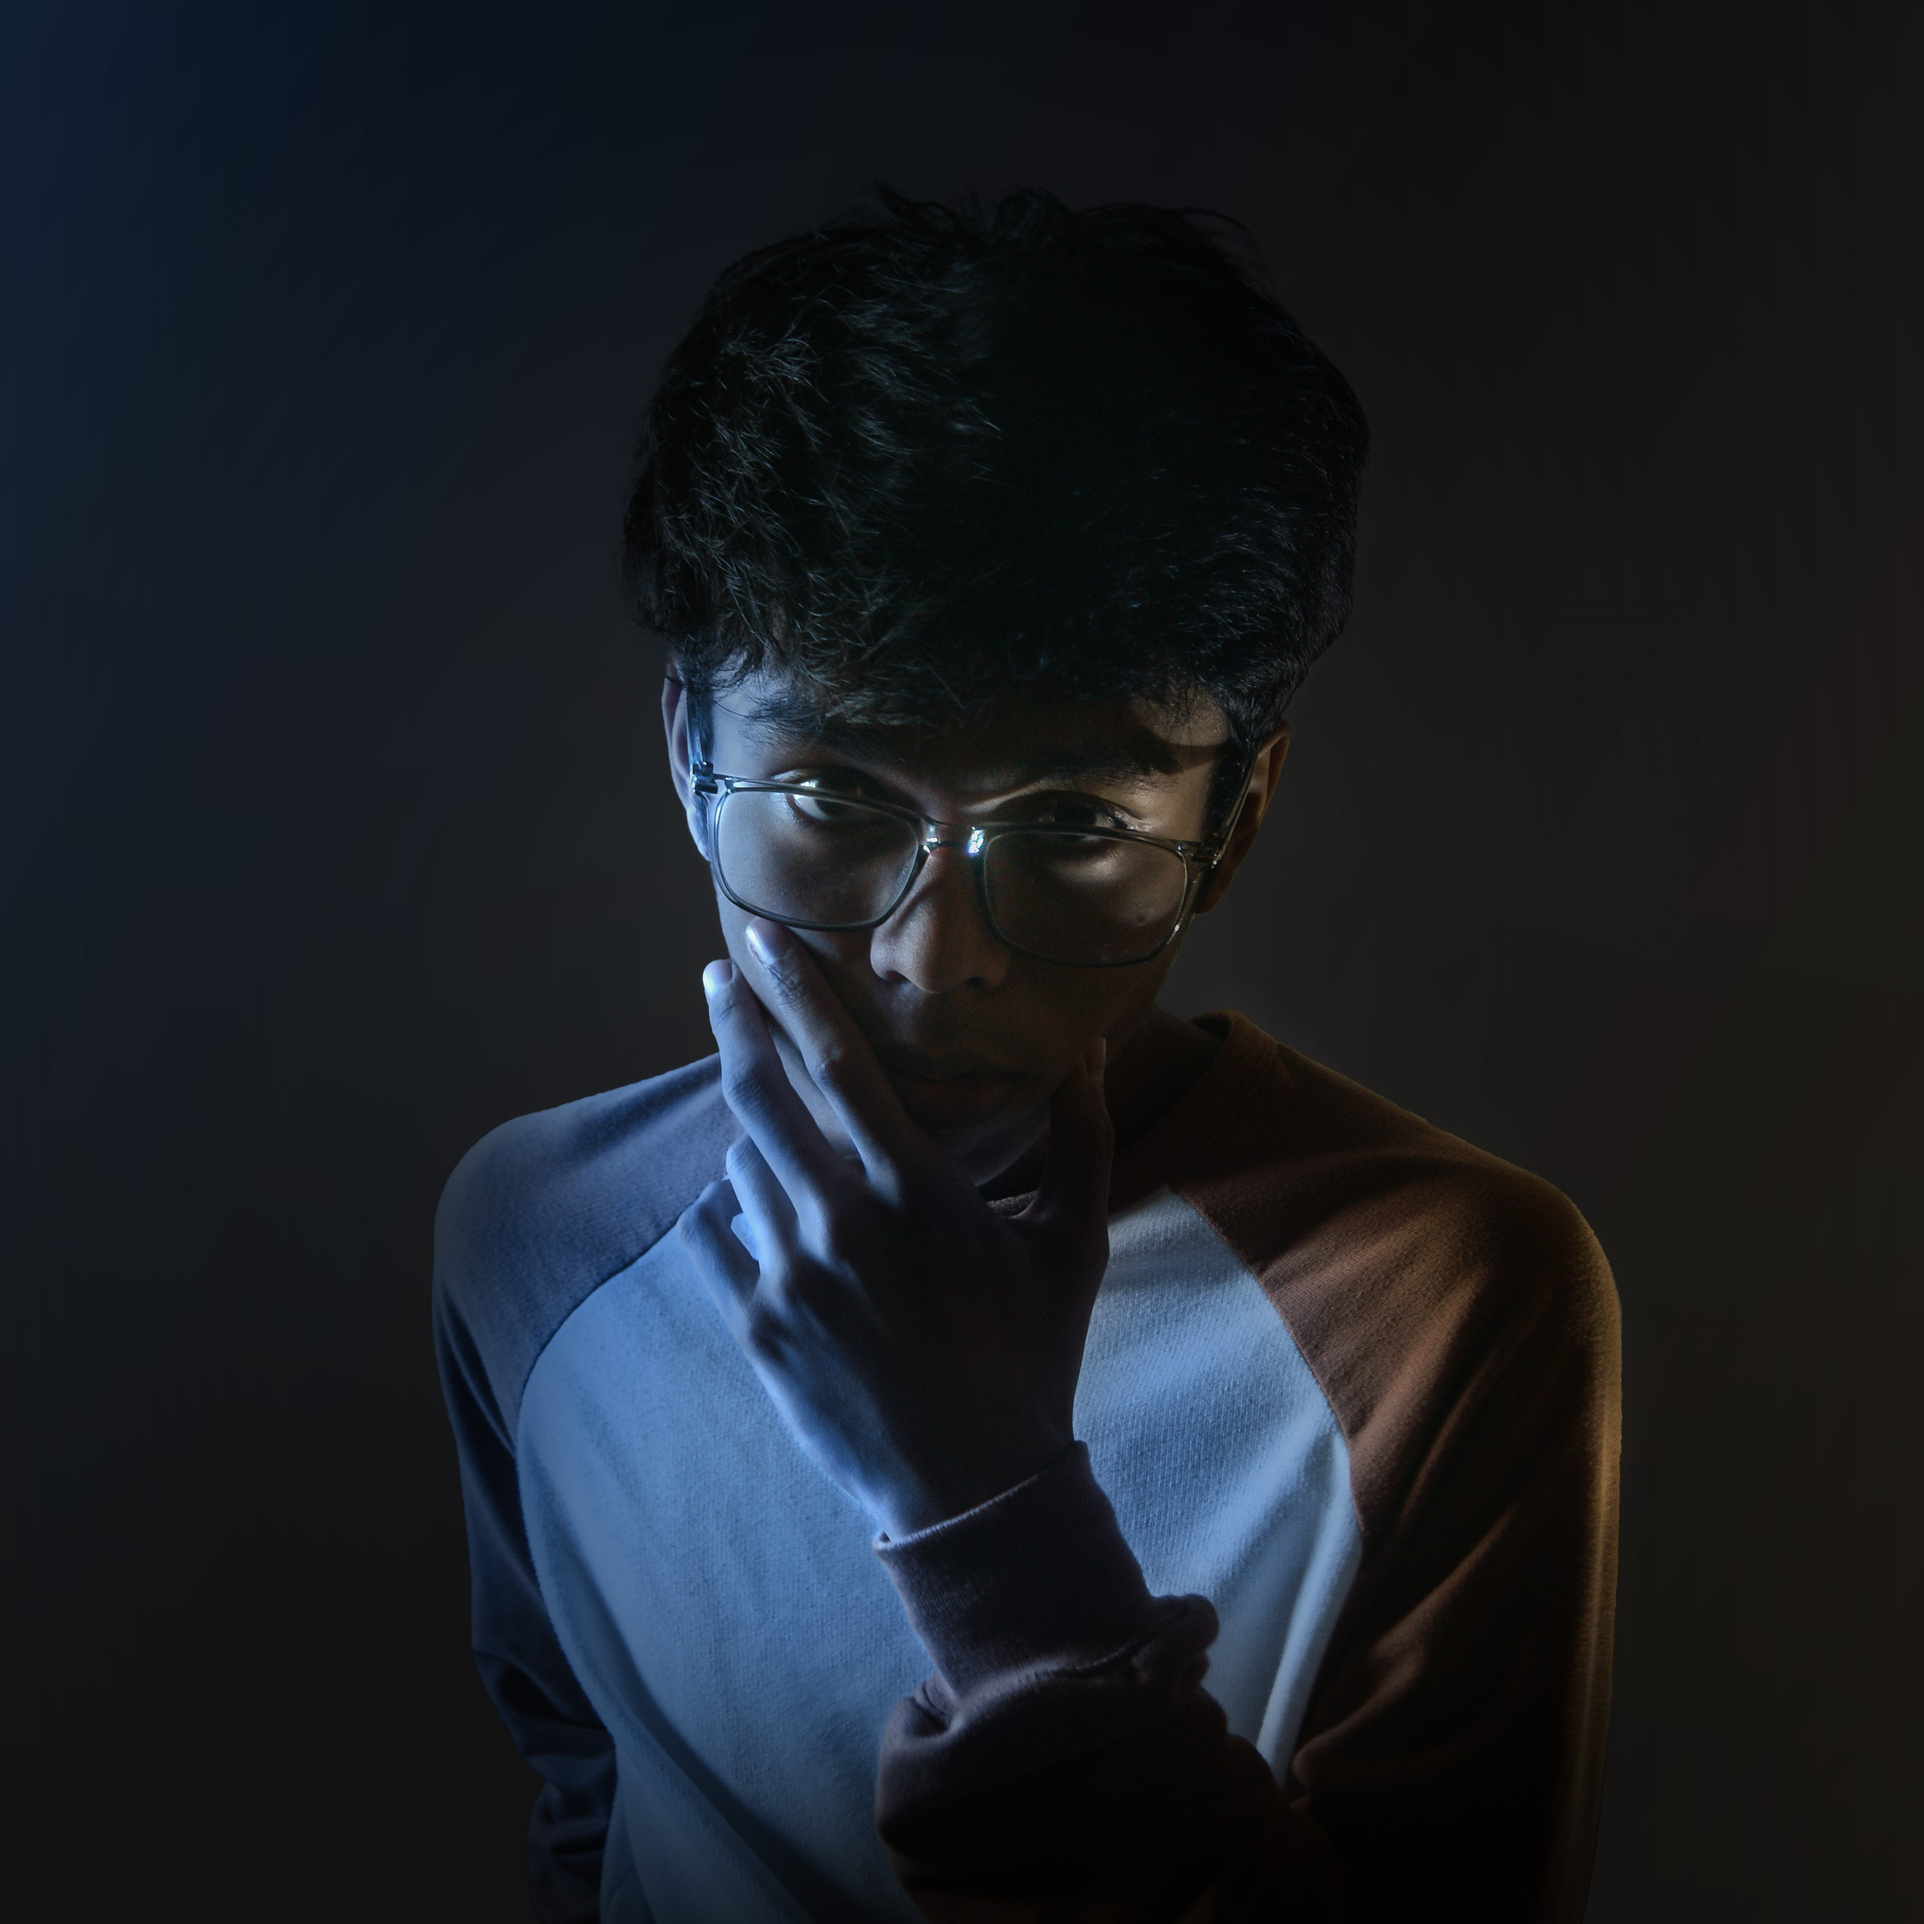
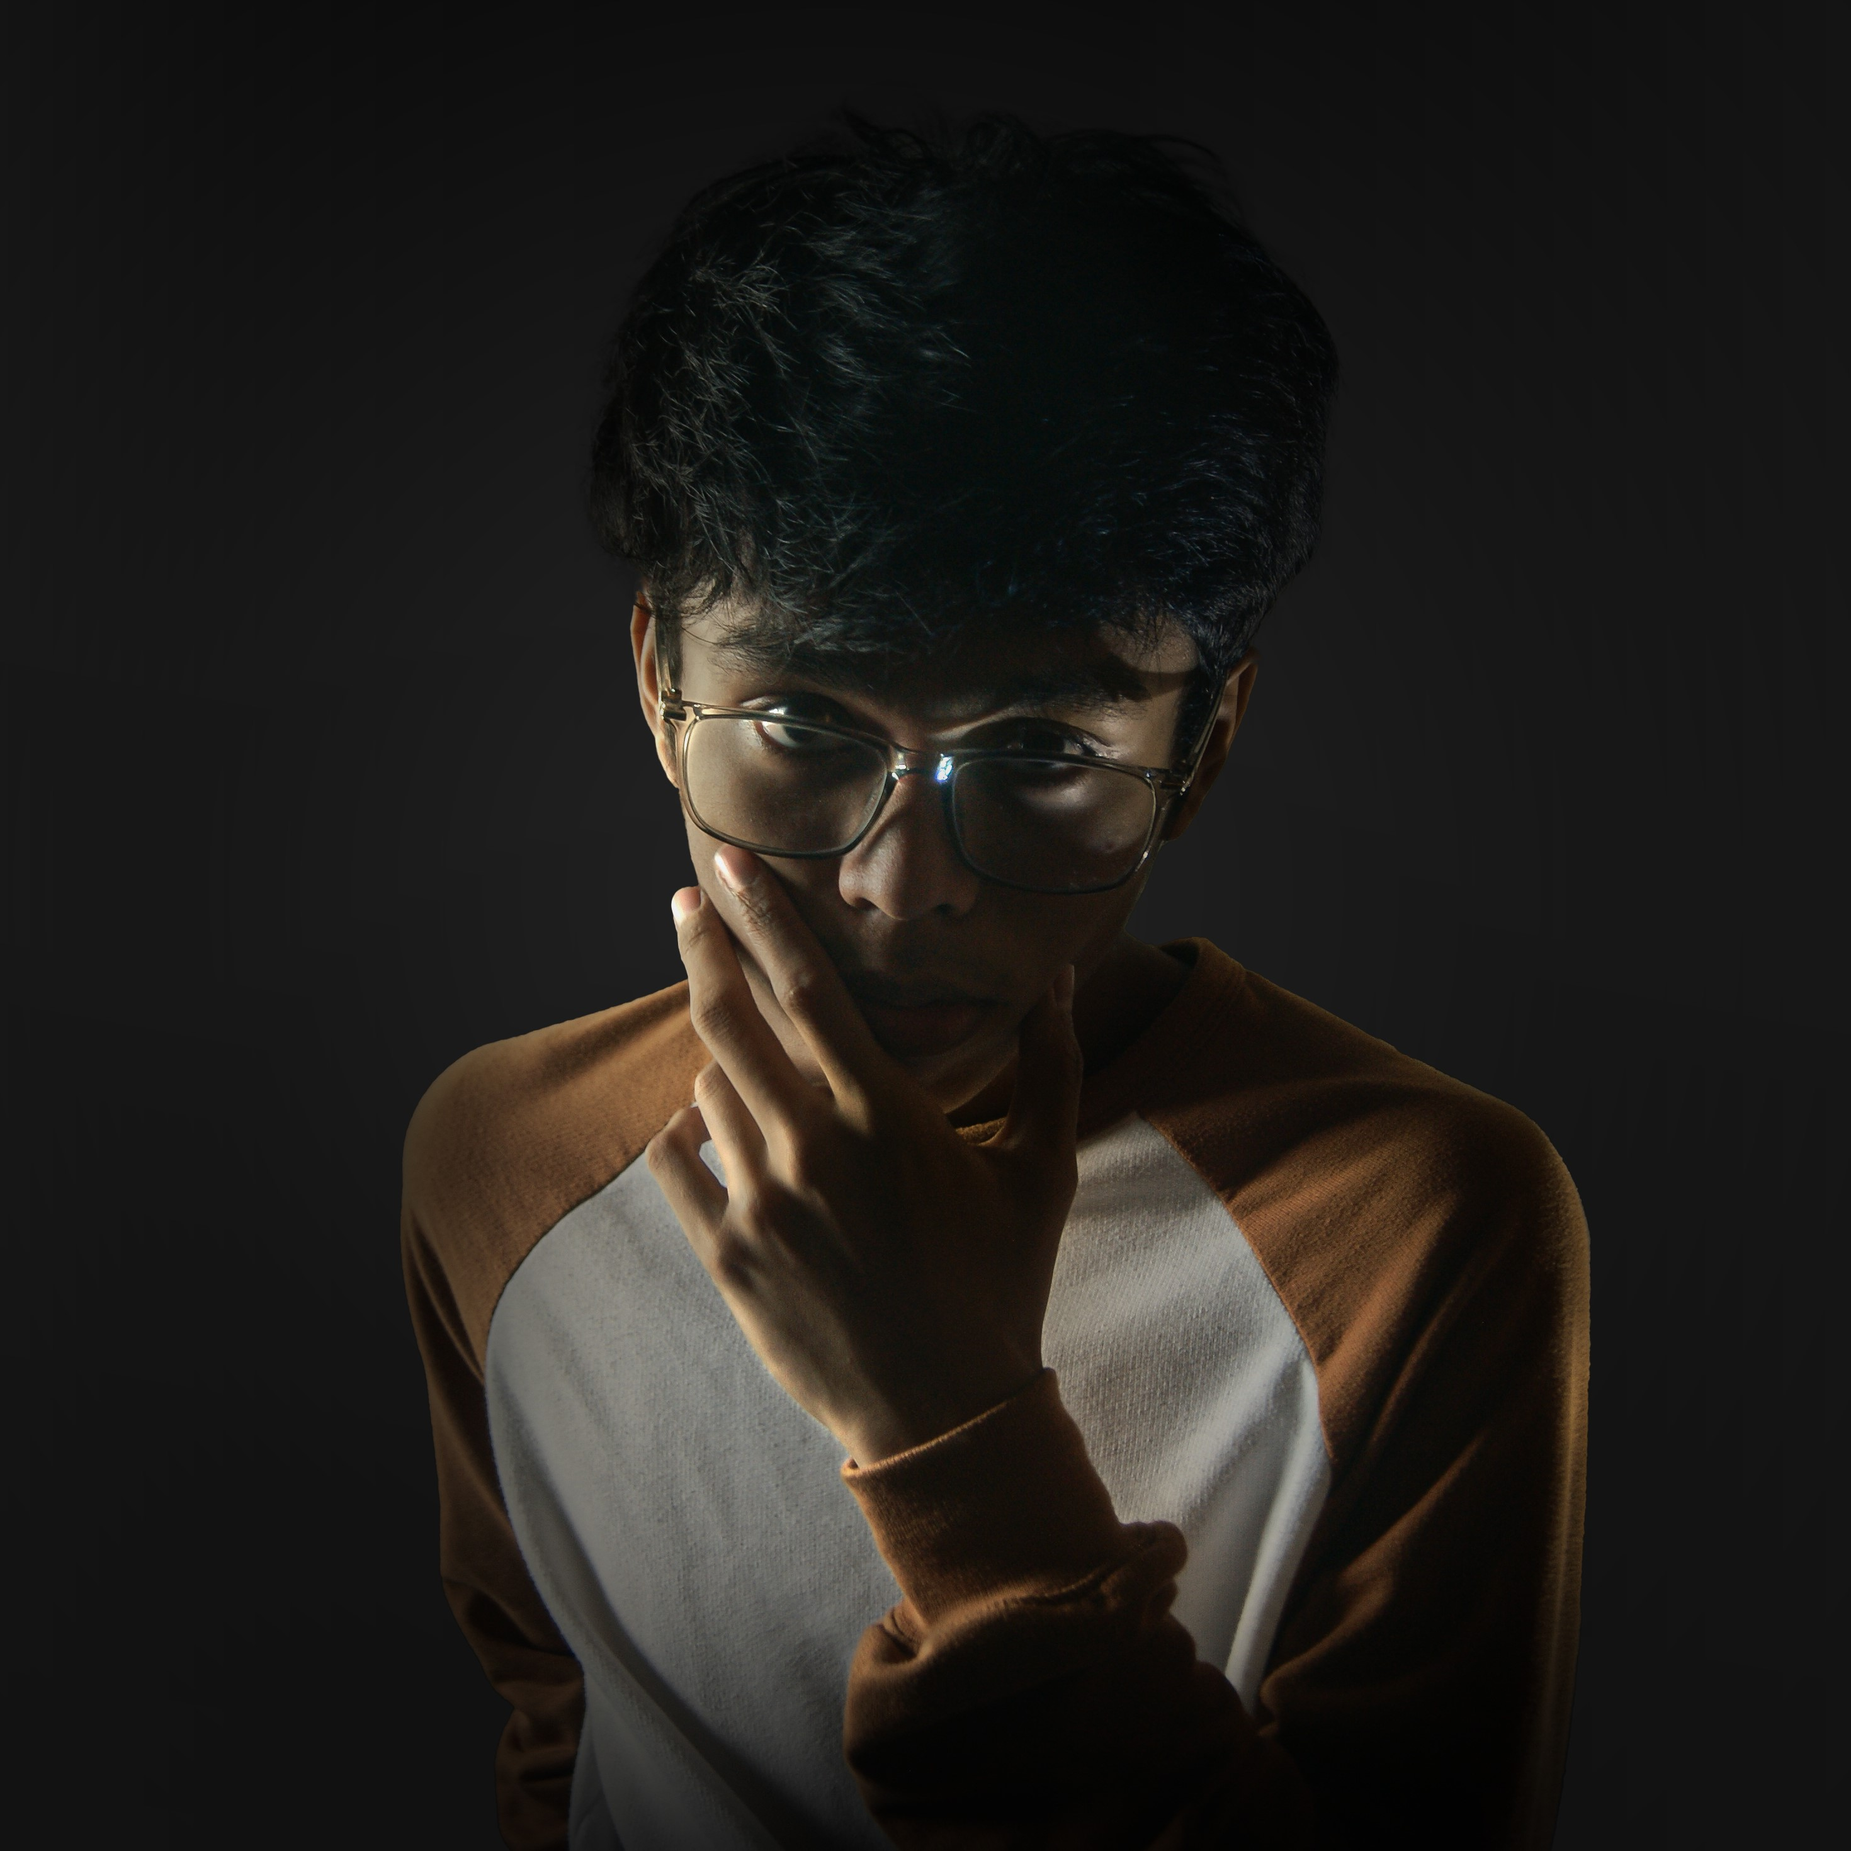
black bg developer

diff --git a/src/app/adventura/page.tsx b/src/app/adventura/page.tsx
@@ -36,7 +36,9 @@ export default function AdventuraPage() {
       </div>
 
       <div className="text-center">
-        <h1 className="text-3xl font-bold">WELCOME TO ADVENTURA</h1>
+        <h1 className="text-3xl font-bold text-primary">
+          WELCOME TO ADVENTURA
+        </h1>
         <p className="[text-wrap:balance]">
           Adventura is a Visual Novel game that allows the users to navigate
           inside the actual place of Cavite State University Indang Campus.
@@ -44,7 +46,7 @@ export default function AdventuraPage() {
       </div>
 
       <div className="text-center">
-        <h1 className="text-xl font-bold">ABOUT THE GAME</h1>
+        <h1 className="text-xl font-bold text-primary">ABOUT THE GAME</h1>
         <p className="[text-wrap:balance]">
           You play as a curious Visitor or a Student of the campus. Navigating
           different places of the campus and learning its history and their

diff --git a/src/lib/constants.ts b/src/lib/constants.ts
@@ -515,7 +515,7 @@ export const DEVS_INFO = [
     name: "Brice Suazo",
     role: "Full Stack Developer",
     image: "/dev-pics/brice.png",
-    desc: "Lorem ipsum dolor sit amet, consectetur adipiscing elit, sed do eiusmod tempor incididunt ut labore et dolore magna aliqua.",
+    desc: "Saluysoy calculator developer, saluysoy predictor, and saluysoy predictor API developer.",
     links: [
       { icon: Mail, url: "mailto:bricebrine.suazo@cvsu.edu.ph" },
       { icon: Globe, url: "https://bricesuazo.com/" },
@@ -528,7 +528,7 @@ export const DEVS_INFO = [
     index: 1,
     name: "Aries Dela Peña",
     role: "UI/UX Designer",
-    image: "/dev-pics/aries.jpg",
+    image: "/dev-pics/aryas.jpg",
     desc: "Lorem ipsum dolor sit amet, consectetur adipiscing elit, sed do eiusmod tempor incididunt ut labore et dolore magna aliqua.",
     links: [
       { icon: Mail, url: "mailto:aries.delapena@cvsu.edu.ph" },

diff --git a/src/components/about-dev.tsx b/src/components/about-dev.tsx
@@ -26,7 +26,7 @@ export default function AboutDev() {
               <Image
                 src={dev.image}
                 alt={dev.name}
-                className="  rounded-full"
+                className=" rounded-full saturate-0"
                 width="120"
                 height="120"
               />
